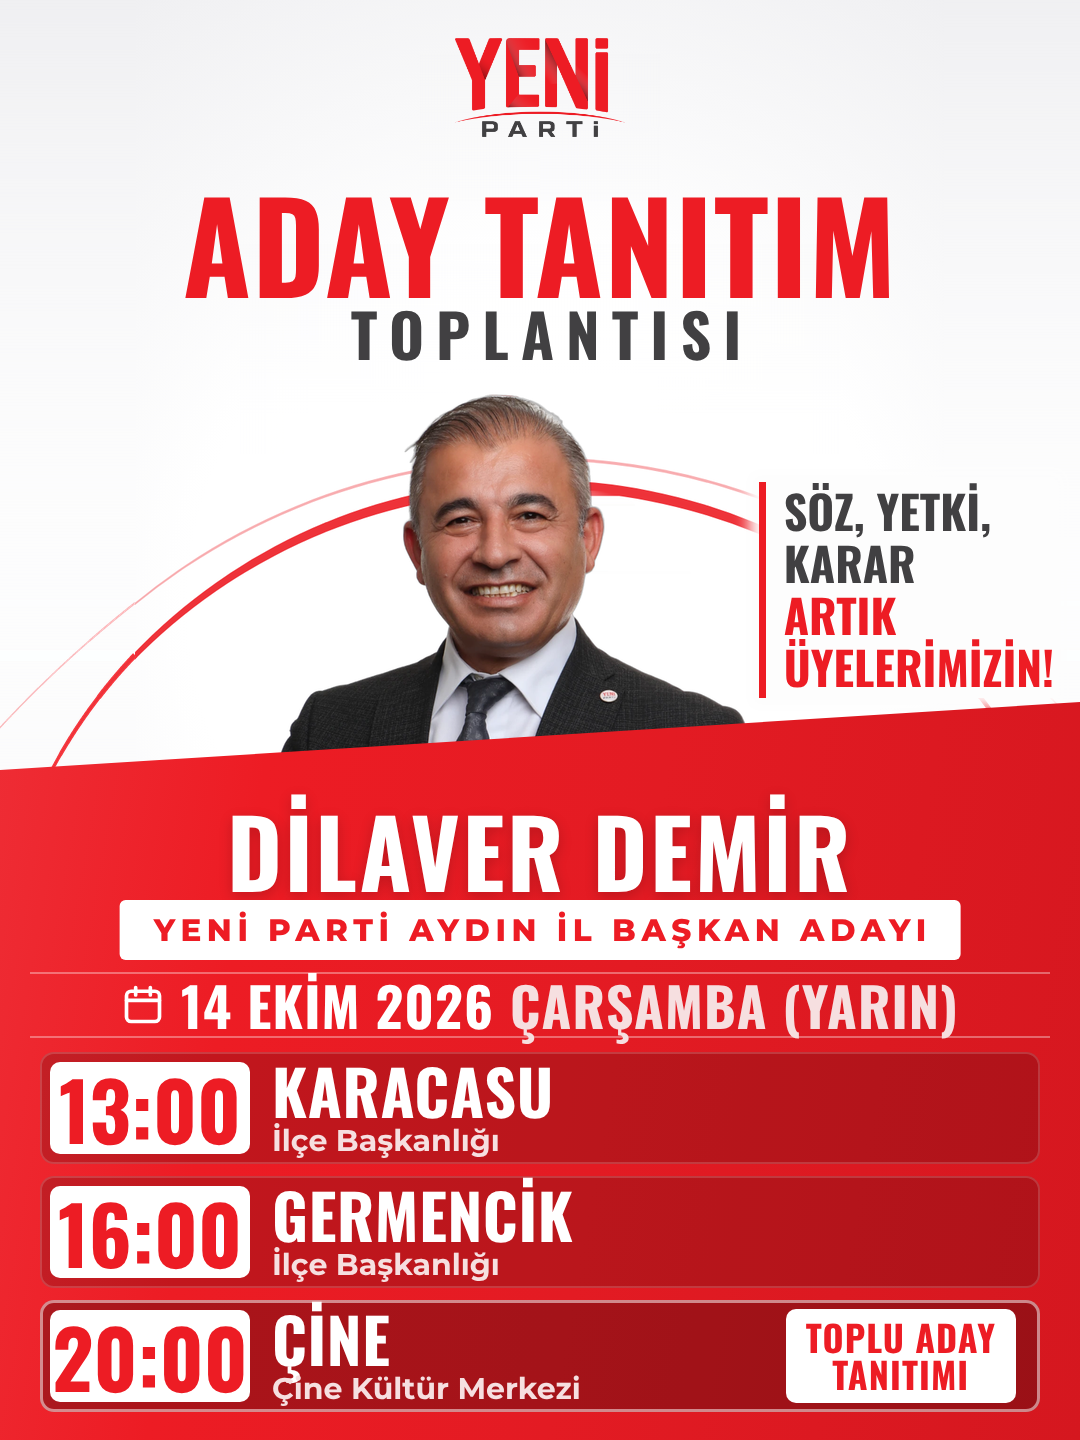
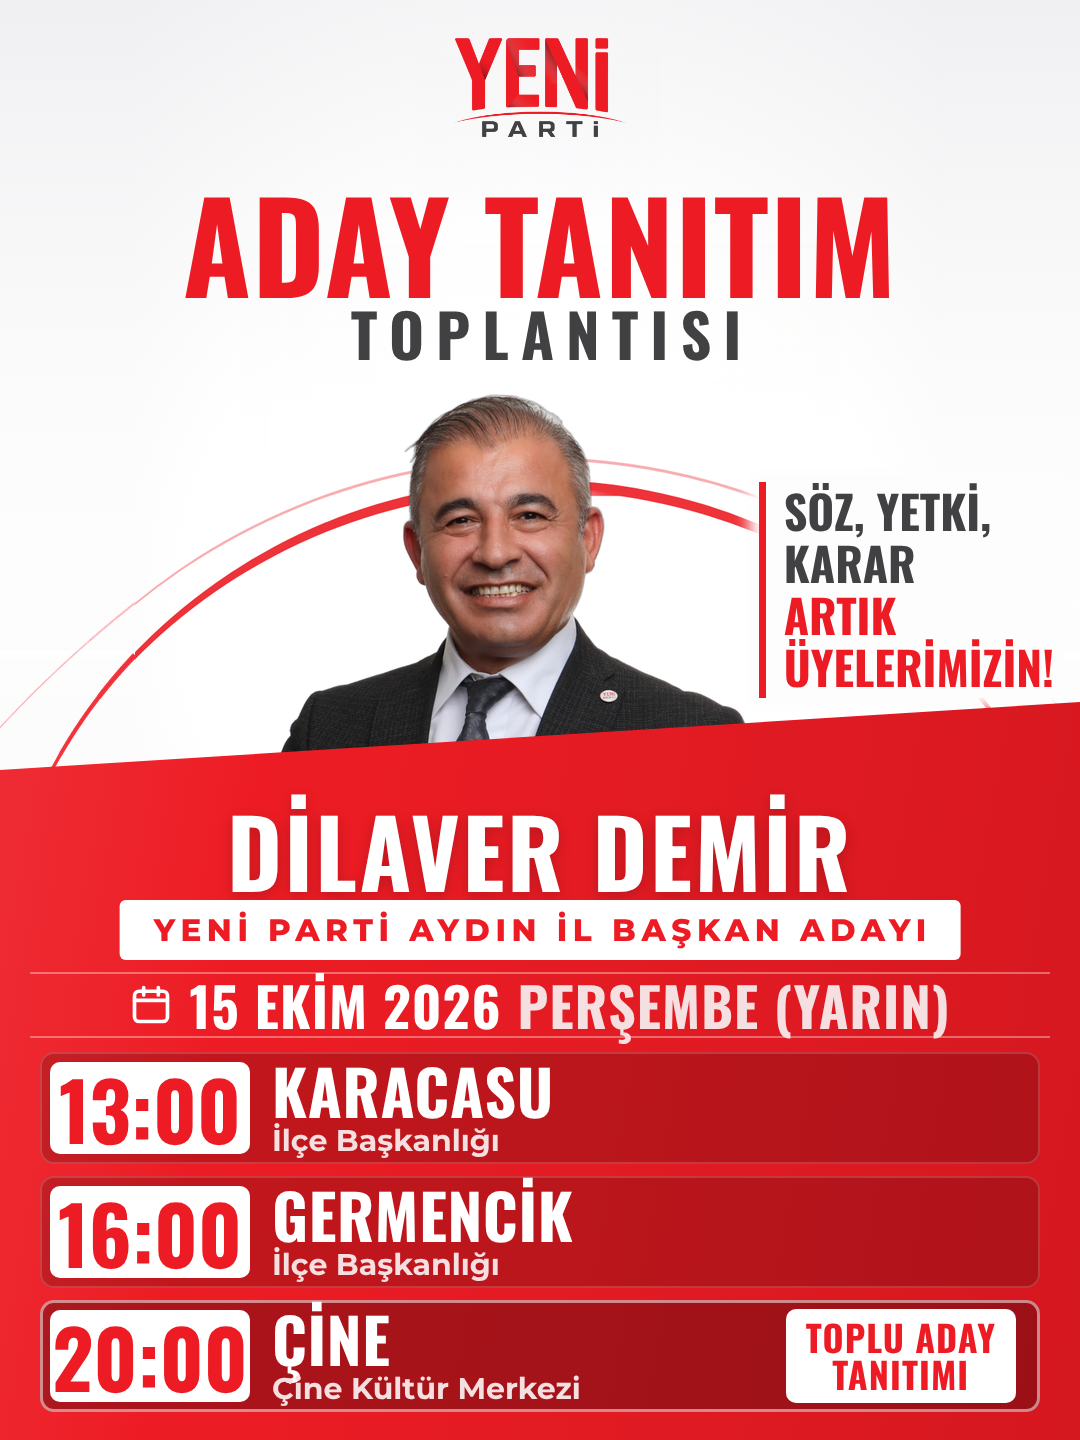
Aday tanıtım programı: tarih 15 Ekim Perşembe
Claude-Session: https://claude.ai/code/session_01SatttGbgBLoCnk9KGLypWv

Changed region(s): [[0.0917, 0.6562, 0.8861, 0.7188]]

diff --git a/tasarim/kisisel/incirliova-orgut/uc-ilce-post.html b/tasarim/kisisel/incirliova-orgut/uc-ilce-post.html
@@ -47,7 +47,7 @@ body{position:relative;background:url(alti-ilce-post-zemin.png) 0 0/1080px 1440p
 <div class="m isim">DİLAVER DEMİR</div>
 <div class="hap"><span>YENİ PARTİ AYDIN İL BAŞKAN ADAYI</span></div>
 <div class="tarih"><svg viewBox="0 0 24 24" fill="none" stroke="#fff" stroke-width="2" stroke-linecap="round" stroke-linejoin="round"><rect x="3" y="4.5" width="18" height="16.5" rx="2.5"/><path d="M3 9.5h18M8 2.5v4M16 2.5v4"/></svg>
-<b>14 EKİM 2026</b><span>ÇARŞAMBA (YARIN)</span></div>
+<b>15 EKİM 2026</b><span>PERŞEMBE (YARIN)</span></div>
 <div class="izgara">
   <div class="kart"><div class="saat">13:00</div><div class="yer"><b>KARACASU</b><span>İlçe Başkanlığı</span></div></div>
   <div class="kart"><div class="saat">16:00</div><div class="yer"><b>GERMENCİK</b><span>İlçe Başkanlığı</span></div></div>
